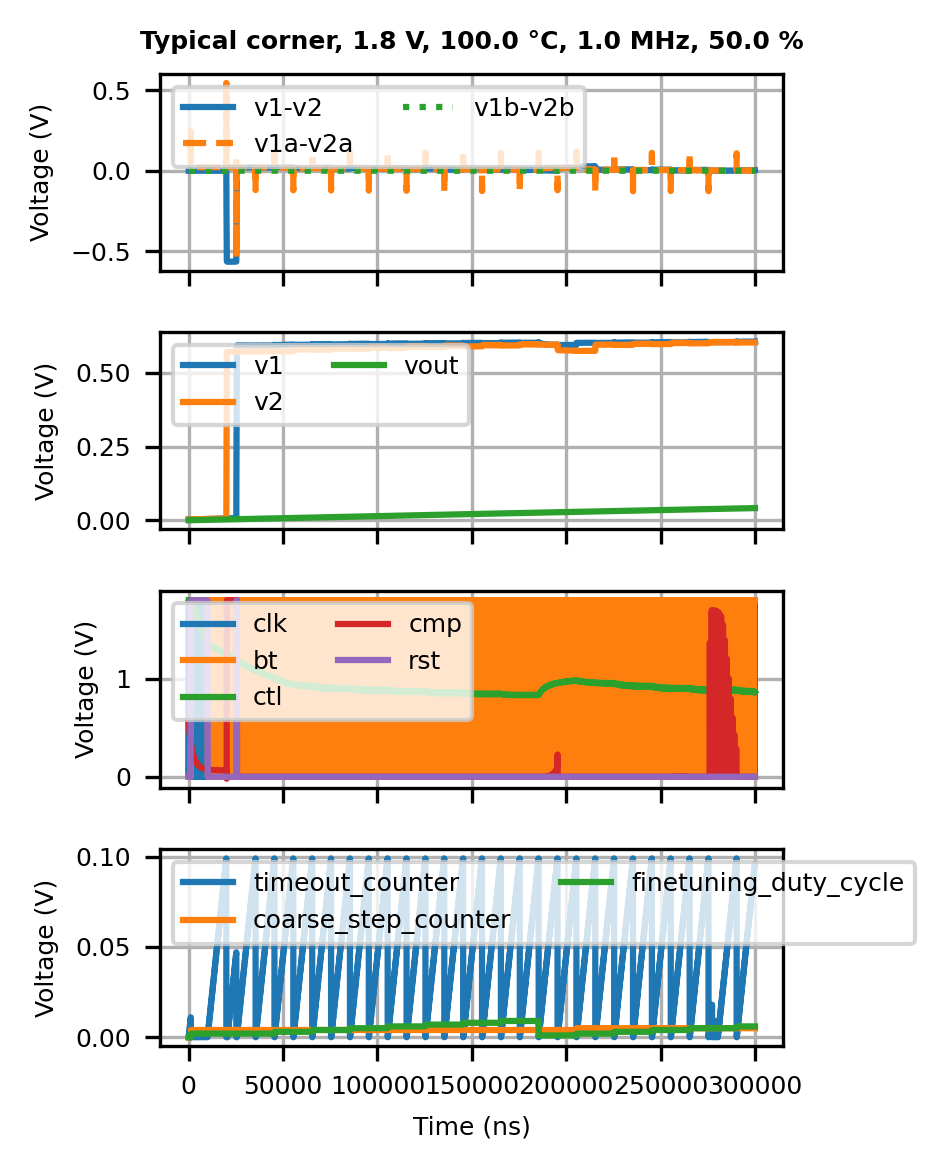
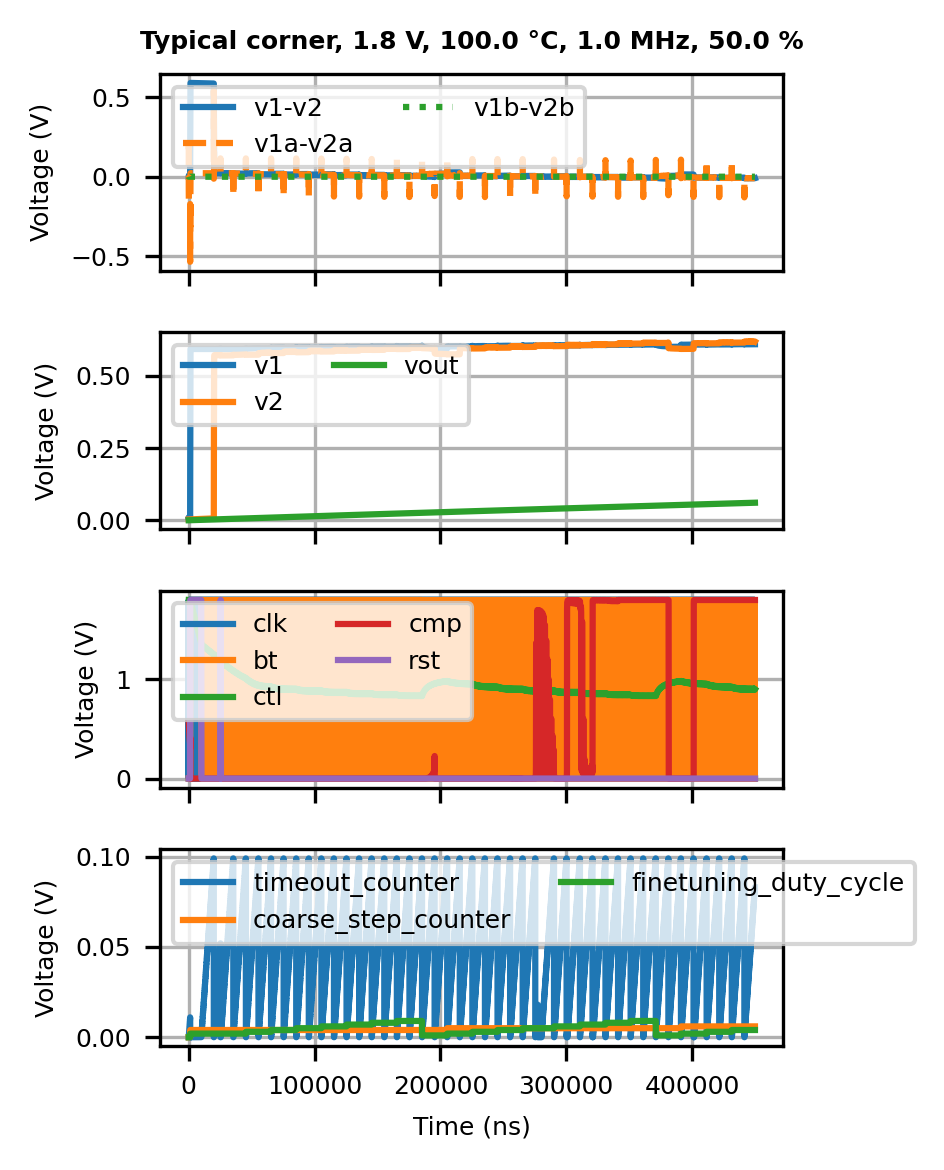
small change to previous commit

diff --git a/sim/dig/plot_transient_signals.py b/sim/dig/plot_transient_signals.py
@@ -51,7 +51,7 @@ elif "test" in args:
                         files.append(f"output_tran/tran_SchGtK{corner}Tt{Vx}{bgr}_temperature{temperature}celsius_frequency{frequency}mhz_dutycycle{dutycycle}percent_vdd{voltage}volt.out")
 elif "temp" in args:
     for corner in ["tt"]:
-        for temperature in [125]: # Celsius (degree C)
+        for temperature in [95, 100, 105]: # Celsius (degree C)
             for frequency in [1]: # Mega Hertz (MHz)
                 for dutycycle in [50]: # Percent (%)
                     for voltage in [1.8]: # Volt (V)
@@ -131,51 +131,51 @@ for file in files:
     # else:
     #     print(f"Plotting results from: {file}")
 
-    # fig, axs = plt.subplots(4, 1, figsize=(fig_width, fig_height), sharex=True, dpi=300)
+    fig, axs = plt.subplots(4, 1, figsize=(fig_width, fig_height), sharex=True, dpi=300)
 
-    # # ax_iout = axs[0].twinx()
-    # # ax_iout.plot(df["time"], df["i(v.xdut.v1)"]*1e6, label="iout", color="tab:orange") # in uA
-    # # axs[0].plot(df["time"], df["v(vout)"], label="vout", color="tab:blue") # in V
+    # ax_iout = axs[0].twinx()
+    # ax_iout.plot(df["time"], df["i(v.xdut.v1)"]*1e6, label="iout", color="tab:orange") # in uA
+    # axs[0].plot(df["time"], df["v(vout)"], label="vout", color="tab:blue") # in V
 
-    # axs[0].plot(df["time"], df["v(v1)"]-df["v(v2)"], label="v1-v2", linestyle="solid")
-    # axs[0].plot(df["time"], df["v(v1a)"]-df["v(v2a)"], label="v1a-v2a", linestyle="dashed")
-    # axs[0].plot(df["time"], df["v(v1b)"]-df["v(v2b)"], label="v1b-v2b", linestyle="dotted")
+    axs[0].plot(df["time"], df["v(v1)"]-df["v(v2)"], label="v1-v2", linestyle="solid")
+    axs[0].plot(df["time"], df["v(v1a)"]-df["v(v2a)"], label="v1a-v2a", linestyle="dashed")
+    axs[0].plot(df["time"], df["v(v1b)"]-df["v(v2b)"], label="v1b-v2b", linestyle="dotted")
     
-    # axs[1].plot(df["time"], df["v(v1)"], label="v1")
-    # # axs[1].plot(df["time"], df["v(v1a)"], label="v1a")
-    # # axs[1].plot(df["time"], df["v(v1b)"], label="v1b")
-    # axs[1].plot(df["time"], df["v(v2)"], label="v2")
-    # # axs[1].plot(df["time"], df["v(v2a)"], label="v2a")
-    # # axs[1].plot(df["time"], df["v(v2b)"], label="v2b")
-    # # axs[1].plot(df["time"], df["v(v2c)"], label="v2c")
-    # axs[1].plot(df["time"], df["v(vout)"], label="vout")
+    axs[1].plot(df["time"], df["v(v1)"], label="v1")
+    # axs[1].plot(df["time"], df["v(v1a)"], label="v1a")
+    # axs[1].plot(df["time"], df["v(v1b)"], label="v1b")
+    axs[1].plot(df["time"], df["v(v2)"], label="v2")
+    # axs[1].plot(df["time"], df["v(v2a)"], label="v2a")
+    # axs[1].plot(df["time"], df["v(v2b)"], label="v2b")
+    # axs[1].plot(df["time"], df["v(v2c)"], label="v2c")
+    axs[1].plot(df["time"], df["v(vout)"], label="vout")
 
-    # axs[2].plot(df["time"], df["v(clk)"], label="clk")
-    # axs[2].plot(df["time"], df["v(bt)"], label="bt")
-    # axs[2].plot(df["time"], df["v(x1.ctl)"], label="ctl")
-    # # axs[2].plot(df["time"], df["v(slp)"], label="slp")
-    # axs[2].plot(df["time"], df["v(cmp)"], label="cmp")
-    # axs[2].plot(df["time"], df["v(rst)"], label="rst")
-    # # axs[2].plot(df["time"], df["v(timeout)"], label="timeout")
-    # axs[3].plot(df["time"], df["v(dec_timeout_counter)"], label="timeout_counter")
-    # # axs[3].plot(df["time"], df["v(dec_finetuning_counter)"], label="finetuning_counter")
-    # axs[3].plot(df["time"], df["v(dec_coarse_step_counter)"], label="coarse_step_counter")
-    # # axs[3].plot(df["time"], df["v(dec_coarse_step1)"], label="coarse_step1")
-    # # axs[3].plot(df["time"], df["v(dec_coarse_step2)"], label="coarse_step2")
-    # axs[3].plot(df["time"], df["v(dec_finetuning_duty_cycle)"], label="finetuning_duty_cycle")
+    axs[2].plot(df["time"], df["v(clk)"], label="clk")
+    axs[2].plot(df["time"], df["v(bt)"], label="bt")
+    axs[2].plot(df["time"], df["v(x1.ctl)"], label="ctl")
+    # axs[2].plot(df["time"], df["v(slp)"], label="slp")
+    axs[2].plot(df["time"], df["v(cmp)"], label="cmp")
+    axs[2].plot(df["time"], df["v(rst)"], label="rst")
+    # axs[2].plot(df["time"], df["v(timeout)"], label="timeout")
+    axs[3].plot(df["time"], df["v(dec_timeout_counter)"], label="timeout_counter")
+    # axs[3].plot(df["time"], df["v(dec_finetuning_counter)"], label="finetuning_counter")
+    axs[3].plot(df["time"], df["v(dec_coarse_step_counter)"], label="coarse_step_counter")
+    # axs[3].plot(df["time"], df["v(dec_coarse_step1)"], label="coarse_step1")
+    # axs[3].plot(df["time"], df["v(dec_coarse_step2)"], label="coarse_step2")
+    axs[3].plot(df["time"], df["v(dec_finetuning_duty_cycle)"], label="finetuning_duty_cycle")
 
-    # for ax in axs:
-    #     ax.set_ylabel("Voltage (V)", fontsize=label_fontsize)
-    #     ax.tick_params(axis="both", labelsize=ticks_fontsize)
-    #     ax.grid()
-    #     ax.legend(loc="upper left", ncol=2, fontsize=legend_fontsize)
+    for ax in axs:
+        ax.set_ylabel("Voltage (V)", fontsize=label_fontsize)
+        ax.tick_params(axis="both", labelsize=ticks_fontsize)
+        ax.grid()
+        ax.legend(loc="upper left", ncol=2, fontsize=legend_fontsize)
 
-    # axs[0].set_title(f"{process_corner} corner, {voltage_supply} V, {circuit_temperature} °C, {clock_frequency} MHz, {duty_cycle} %", fontsize=title_fontsize, fontweight='bold')
-    # axs[-1].set_xlabel("Time (ns)", fontsize=label_fontsize)
+    axs[0].set_title(f"{process_corner} corner, {voltage_supply} V, {circuit_temperature} °C, {clock_frequency} MHz, {duty_cycle} %", fontsize=title_fontsize, fontweight='bold')
+    axs[-1].set_xlabel("Time (ns)", fontsize=label_fontsize)
 
-    # # ax_iout.set_ylabel("Current (uA)", fontsize=label_fontsize)
-    # # ax_iout.legend(loc="lower right", fontsize=legend_fontsize)
-    # # ax_iout.tick_params(axis='both', labelsize=ticks_fontsize)
+    # ax_iout.set_ylabel("Current (uA)", fontsize=label_fontsize)
+    # ax_iout.legend(loc="lower right", fontsize=legend_fontsize)
+    # ax_iout.tick_params(axis='both', labelsize=ticks_fontsize)
 
     # fig.tight_layout()
     # fig.savefig(f"figures/{file.split('/')[-1].split('.out')[0]}.png", dpi=300, bbox_inches="tight")
@@ -184,11 +184,12 @@ for file in files:
     # fig_2, axs_2 = plt.subplots(6, 1, figsize=(fig_width, fig_height), sharex=True, dpi=300)
     
     # axs_2[0].plot(df["time"], df["v(bt)"], label="v(bt)")
-    # axs_2[1].plot(df["time"], df["v(clk)"], label="v(clk)")
-    # axs_2[2].plot(df["time"], df["v(cmp)"], label="v(cmp)")
-    # axs_2[3].plot(df["time"], df["v(cmp_sync1)"], label="v(cmp_sync1)")
-    # axs_2[4].plot(df["time"], df["v(cmp_sync2)"], label="v(cmp_sync2)")
-    # axs_2[5].plot(df["time"], df["v(cmp_rising)"], label="v(cmp_rising)")
+    # axs_2[0].plot(df["time"], df["v(clk)"], label="v(clk)")
+    # axs_2[1].plot(df["time"], df["v(cmp)"], label="v(cmp)")
+    # axs_2[2].plot(df["time"], df["v(cmp_sync1)"], label="v(cmp_sync1)")
+    # axs_2[3].plot(df["time"], df["v(cmp_sync2)"], label="v(cmp_sync2)")
+    # axs_2[4].plot(df["time"], df["v(cmp_rising)"], label="v(cmp_rising)")
+    # axs_2[5].plot(df["time"], df["v(dec_cmp_rising_counter)"], label="v(dec_cmp_rising_counter)")
 
     # for i, ax in enumerate(axs_2):
     #     ax.set_ylabel("Voltage (V)", fontsize=label_fontsize)

diff --git a/sim/TB_dig_ctrl/plot_transient_voltages.py b/sim/TB_dig_ctrl/plot_transient_voltages.py
@@ -51,7 +51,7 @@ elif "test" in args:
                         files.append(f"output_tran/tran_SchGtK{corner}Tt{Vx}{bgr}_temperature{temperature}celsius_frequency{frequency}mhz_dutycycle{dutycycle}percent_vdd{voltage}volt.out")
 elif "temp" in args:
     for corner in ["tt"]:
-        for temperature in [90, 125]: # Celsius (degree C)
+        for temperature in [100]: # Celsius (degree C)
             for frequency in [1]: # Mega Hertz (MHz)
                 for dutycycle in [50]: # Percent (%)
                     for voltage in [1.8]: # Volt (V)
@@ -177,18 +177,19 @@ for file in files:
     # ax_iout.legend(loc="lower right", fontsize=legend_fontsize)
     # ax_iout.tick_params(axis='both', labelsize=ticks_fontsize)
 
-    fig.tight_layout()
-    fig.savefig(f"figures/{file.split('/')[-1].split('.out')[0]}.png", dpi=300, bbox_inches="tight")
+    # fig.tight_layout()
+    # fig.savefig(f"figures/{file.split('/')[-1].split('.out')[0]}.png", dpi=300, bbox_inches="tight")
 
 
-    # fig_2, axs_2 = plt.subplots(6, 1, figsize=(fig_width, fig_height), sharex=True, dpi=300)
+    # fig_2, axs_2 = plt.subplots(7, 1, figsize=(fig_width, fig_height), sharex=True, dpi=300)
     
+    # axs_2[0].plot(df["time"], df["v(clk)"], label="v(clk)")
     # axs_2[0].plot(df["time"], df["v(bt)"], label="v(bt)")
-    # axs_2[1].plot(df["time"], df["v(clk)"], label="v(clk)")
-    # axs_2[2].plot(df["time"], df["v(cmp)"], label="v(cmp)")
+    # axs_2[1].plot(df["time"], df["v(cmp)"], label="v(cmp)")
     # axs_2[3].plot(df["time"], df["v(cmp_sync1)"], label="v(cmp_sync1)")
-    # axs_2[4].plot(df["time"], df["v(cmp_sync2)"], label="v(cmp_sync2)")
-    # axs_2[5].plot(df["time"], df["v(cmp_rising)"], label="v(cmp_rising)")
+    # axs_2[3].plot(df["time"], df["v(cmp_sync2)"], label="v(cmp_sync2)")
+    # axs_2[4].plot(df["time"], df["v(cmp_rising)"], label="v(cmp_rising)")
+    # axs_2[5].plot(df["time"], df["v(dec_cmp_rising_counter)"], label="v(dec_cmp_rising_counter)")
 
     # for i, ax in enumerate(axs_2):
     #     ax.set_ylabel("Voltage (V)", fontsize=label_fontsize)
